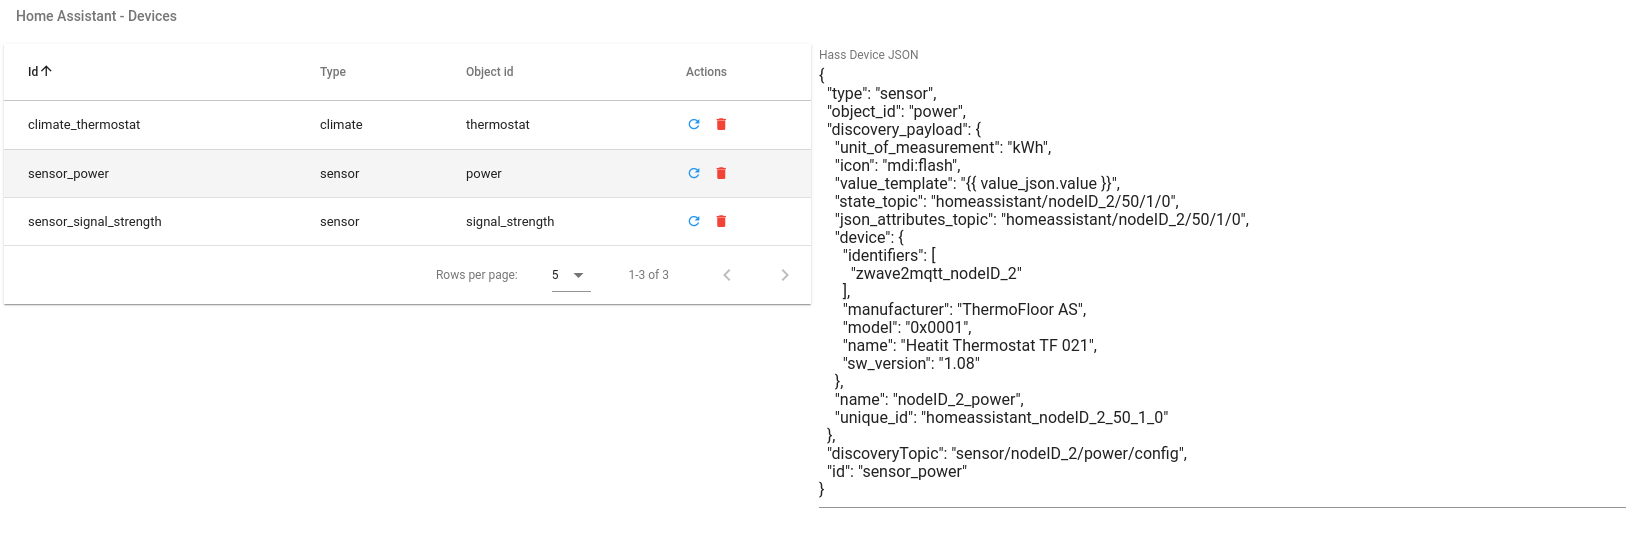
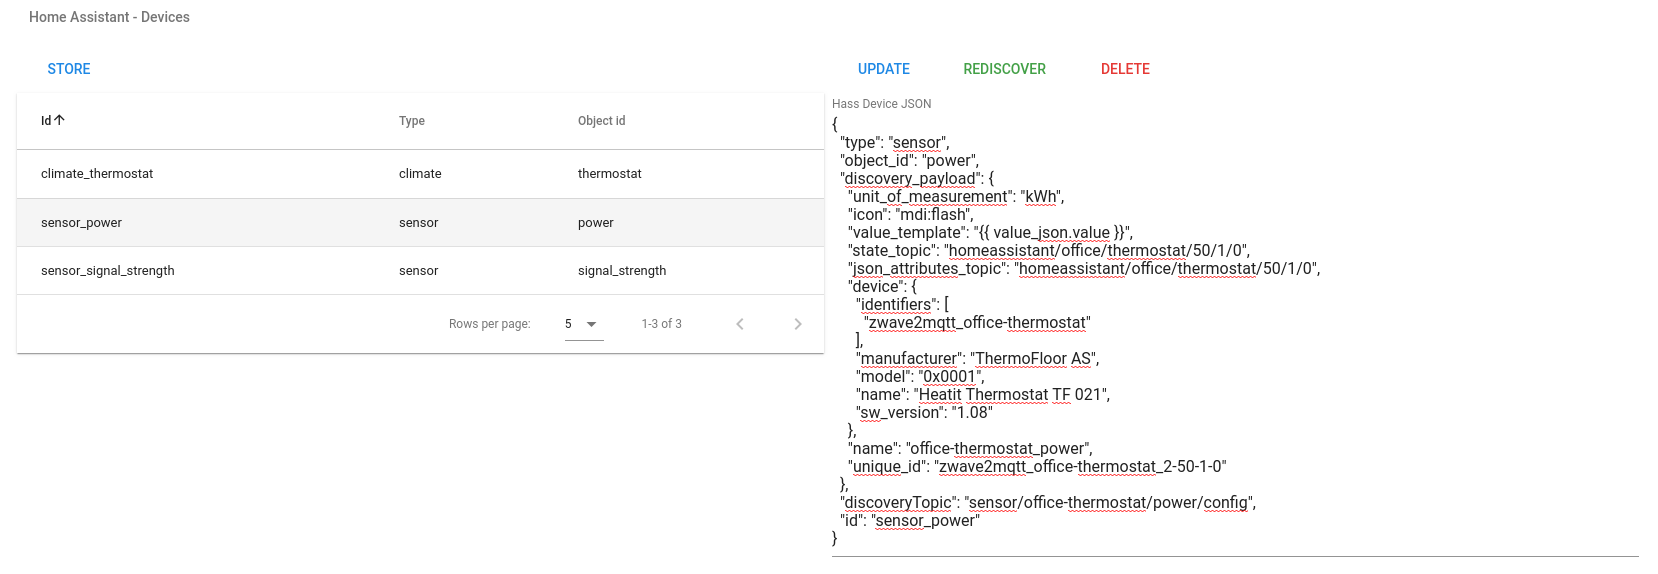
[docs] Updated hass devices section

diff --git a/README.md b/README.md
@@ -304,10 +304,11 @@ Zwave2Mqtt try to do its best to guess how to map devices from Zwave to HASS. At
 
 To see the components that have been discovered by Zwave2Mqtt go to Control Panel UI, select a Node from the Nodes table then select the Node tab from tabs menu at the bottom of Nodes table. Now at the Bottom of the page, after Node values section you can find a new section called `Home Assistant - Devices`. Here you will see a table with all devices created for the selected node.
 
-If you select a device it's configuration will be displayed as a JSON object on the right. In the action column you can trigger two actions, in order:
+If you select a device it's configuration will be displayed as a JSON object on the right. With the selected device you can send some actions:
 
-- `Discover`: Re-discover this device using the `discoveryTopic` and `discovery_payload` of the configuration
-- `Delete`: Delete the device from Hass entities
+- `Update`: Update in-memory hass device configuration
+- `Rediscover`: Re-discover this device using the `discoveryTopic` and `discovery_payload` of the configuration
+- `Delete`: Delete the device from Hass entities of selected node
 
 ![Hass Devices](docs/hass_devices.png)
 
